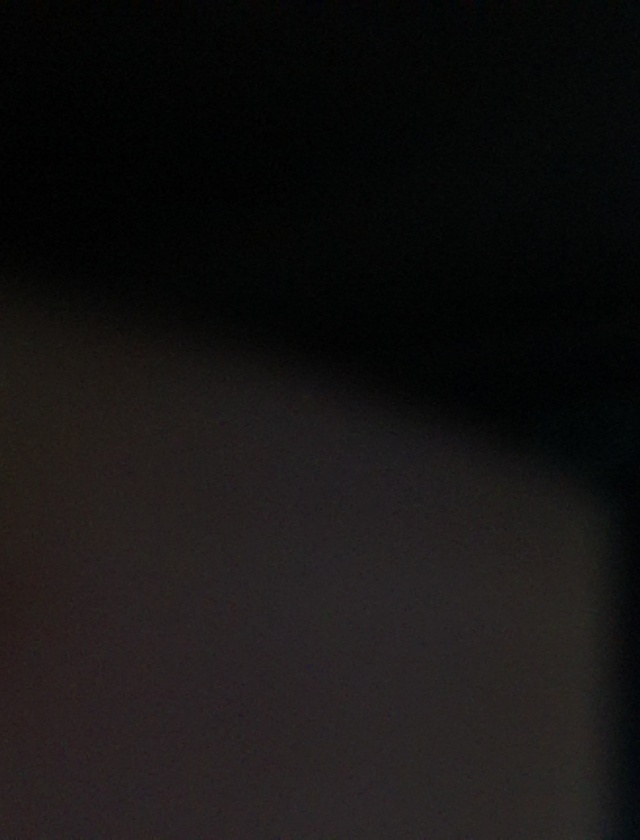
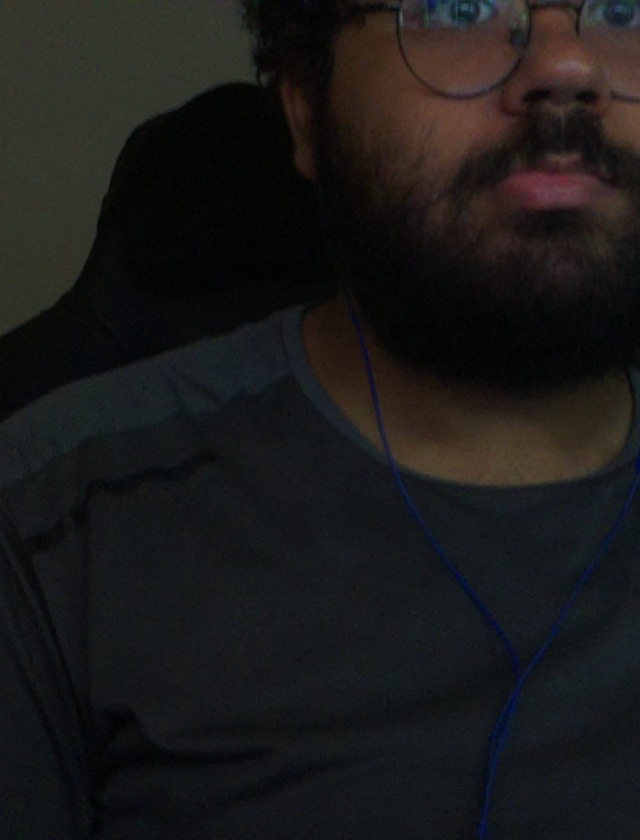
MQTT setup

diff --git a/Clean/maestro/api.py b/Clean/maestro/api.py
@@ -14,8 +14,8 @@ import os
 """"
 uvicorn api:app --host 0.0.0.0 --port 8080 --log-config log.ini
 """
-YOUR_PI_IP = "192.168.88.111"
-
+YOUR_PI_IP = "192.168.10.111"
+                
 app = FastAPI()
 
 @app.post("/detect")
@@ -85,3 +85,6 @@ async def search_face(image: UploadFile = File(...), k: int = Form(5)):
     response = requests.post(url, files=files, data=data)
     requests.post(f"http://{YOUR_PI_IP}:8000/send-word", json={"word": "Search: Complete"})
     return JSONResponse(content=response.json(), status_code=response.status_code)
+    
+
+

diff --git a/Clean/MQTT/api.py b/Clean/MQTT/api.py
@@ -4,12 +4,12 @@ import paho.mqtt.publish as publish
 
 #uvicorn api:app --host 0.0.0.0 --port 8000
 
-app = FastAPI()
+app = FastAPI() 
 
 
-MQTT_BROKER = "192.168.88.111"
+MQTT_BROKER = "192.168.10.111"
 MQTT_TOPIC = "home/text_message"
-MQTT_USER = "myuser"
+MQTT_USER = "myuser"    
 MQTT_PASS = "mypassword"
 
 class Message(BaseModel):
